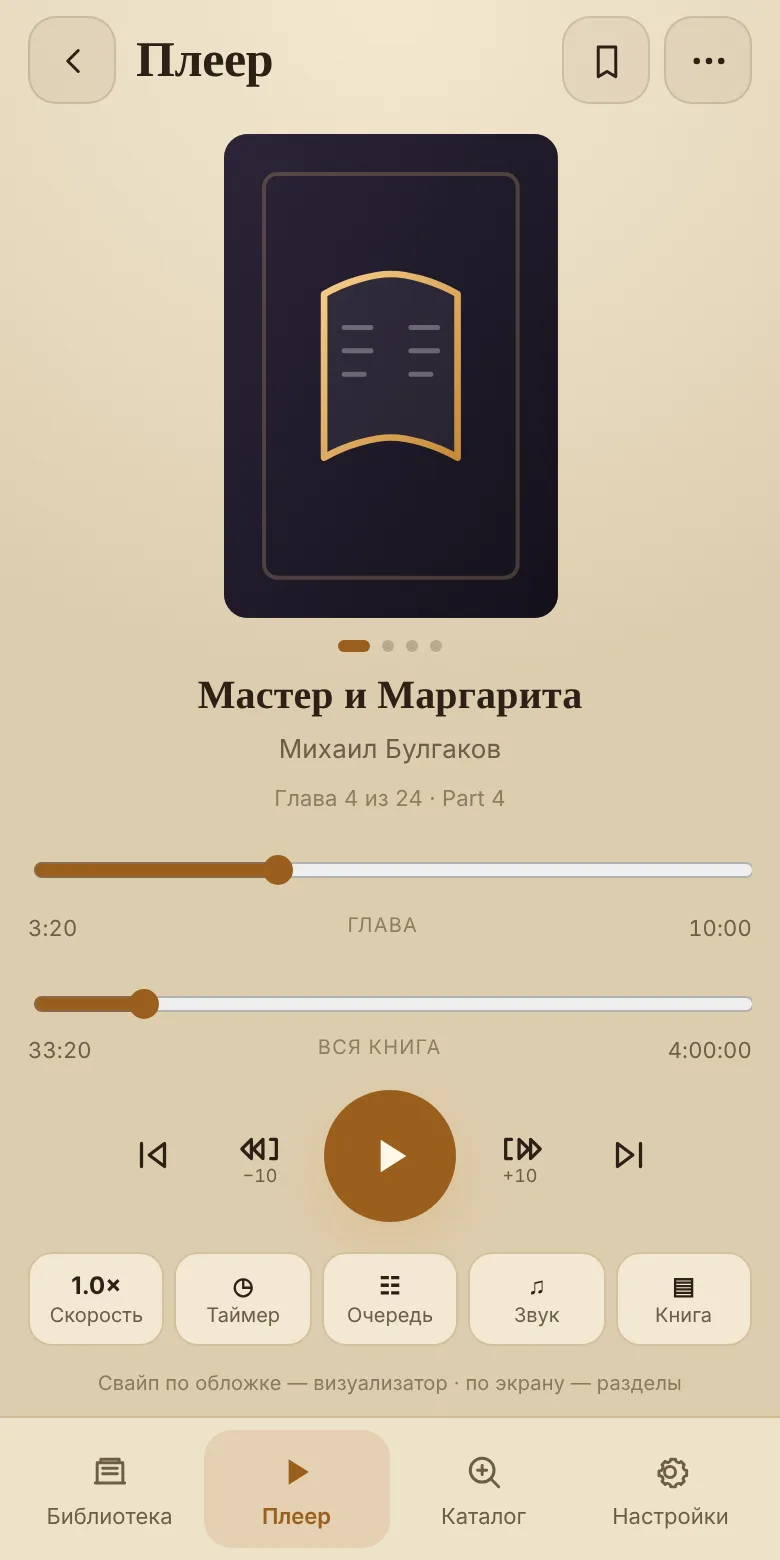
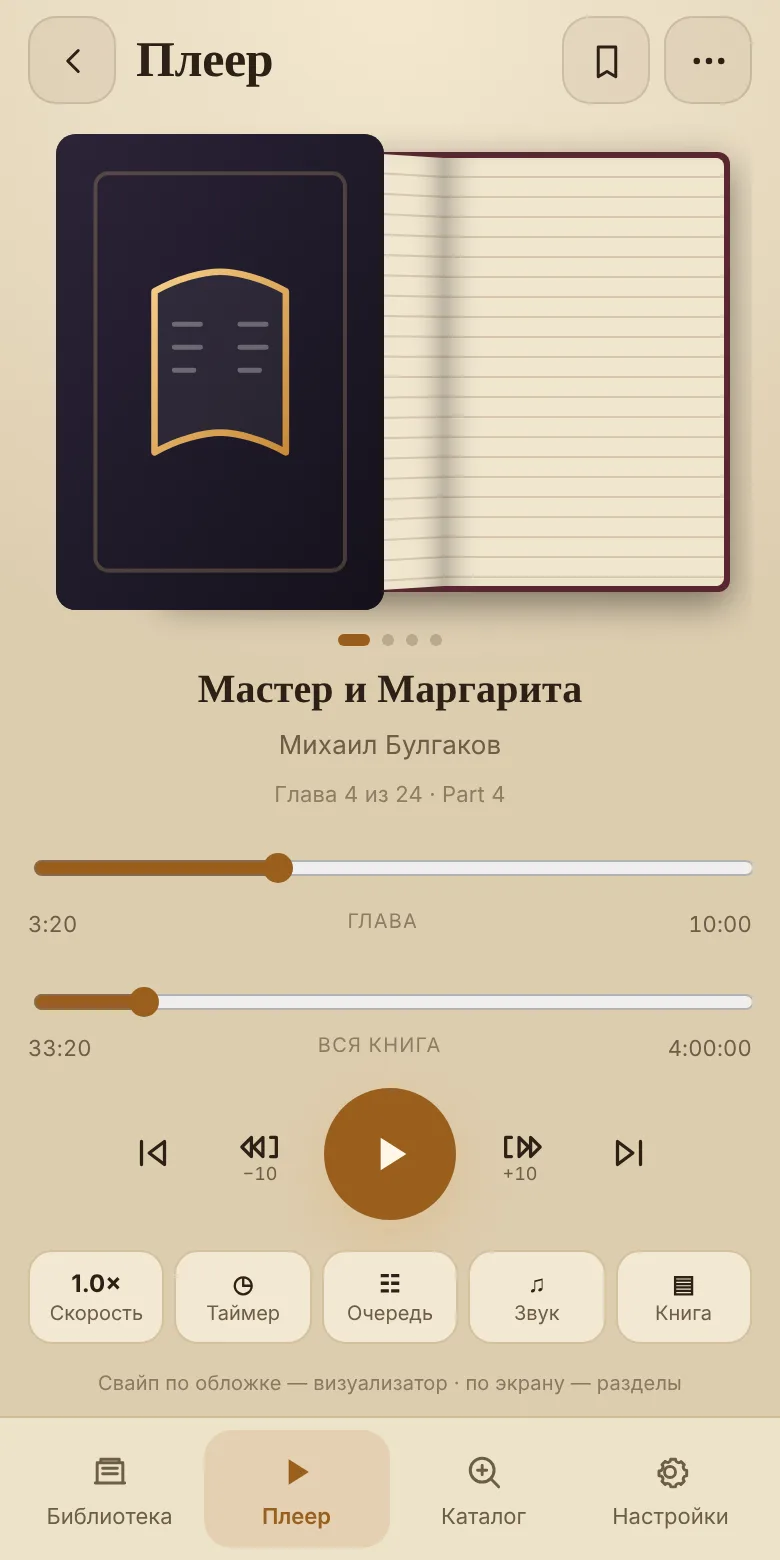
фикс

diff --git a/www/js/library.js b/www/js/library.js
@@ -44,9 +44,10 @@ function bindLoadMore(){
   if(btn) btn.onclick = () => { libraryDisplayLimit += 50; renderShelf(); };
 }
 
-const catalogTab = () => state.libraryFilterType === 'saved' || state.libraryFilterType === 'online';
+const catalogTab = () => state.libraryFilterType === 'online';
 
 export function renderShelf(){
+  if(state.libraryFilterType === 'saved') state.libraryFilterType = 'all';      // the old «Скачанные» tab is gone: downloaded books sit among books / music
   const { all, shown } = visibleBooks();
   const viewMode = localStorage.getItem('shelfViewMode') || 'list';
   const viewToggleIcon = viewMode === 'grid' ? 'list' : 'grid';
@@ -61,7 +62,6 @@ export function renderShelf(){
     `<button type="button" class="filter-chip ${state.libraryFilterType==='all'?'active':''}" data-filter="all">${t('Все')} (${state.books.length})</button>` +
     `<button type="button" class="filter-chip ${state.libraryFilterType==='book'?'active':''}" data-filter="book">${t('Книги')}</button>` +
     `<button type="button" class="filter-chip ${state.libraryFilterType==='album'?'active':''}" data-filter="album">${t('Музыка')}</button>` +
-    `<button type="button" class="filter-chip ${state.libraryFilterType==='saved'?'active':''}" data-filter="saved">${t('Скачанные')}</button>` +
     `<button type="button" class="filter-chip ${state.libraryFilterType==='online'?'active':''}" data-filter="online">${t('Онлайн')}</button>` +
   `</div>`;
   html += `<div class="${viewMode === 'grid' ? 'shelf-grid' : 'shelf-list'}">`;
@@ -161,7 +161,7 @@ function libraryBookRow(b, sig = rowSig(b)){
 
   return `<div class="library-book-item" data-id="${escapeHtml(b.id)}" data-sig="${escapeHtml(sig)}">
     <div class="lib-row-main">
-      <div class="lib-thumb">${bookCover(b)}${kindBadge(b)}</div>
+      <div class="lib-thumb">${bookCover(b)}${kindBadge(b)}${b.source && !b.online ? `<span class="dl-badge" aria-label="${t('Скачано')}">${icon('download', 'icon dl-ico')}</span>` : ''}</div>
       <div class="lib-info">
         <div class="lib-title">${escapeHtml(b.title)}</div>
         <div class="lib-author">${escapeHtml(b.author||t('Автор не указан'))}</div>
@@ -176,12 +176,11 @@ function libraryBookRow(b, sig = rowSig(b)){
 function filterBooks(books){
   const q = state.query.trim().toLowerCase();
   let filtered = books;
+  // downloaded catalog books are ordinary books / albums (marked with a small icon); the ones streamed from the internet have their own tab
   if(state.libraryFilterType === 'book'){
-    filtered = filtered.filter(b => !isMusic(b));
+    filtered = filtered.filter(b => !isMusic(b) && !b.online);
   } else if(state.libraryFilterType === 'album'){
-    filtered = filtered.filter(isMusic);
-  } else if(state.libraryFilterType === 'saved'){            // downloaded from the catalog: kept on the device for good
-    filtered = filtered.filter(b => b.source && !b.online);
+    filtered = filtered.filter(b => isMusic(b) && !b.online);
   } else if(state.libraryFilterType === 'online'){           // catalog books that are listened to over the internet
     filtered = filtered.filter(b => b.source && b.online);
   }

diff --git a/www/js/state.js b/www/js/state.js
@@ -20,6 +20,7 @@ export const ICONS = {
   shelf:'<path d="M4 18h16M5 18V7h14v11M7 7V5h10v2M8 10h8M8 13h8"/>',
   book:'<path d="M5 4h11a3 3 0 0 1 3 3v13H8a3 3 0 0 0-3 0V4Z"/><path d="M8 20V7a3 3 0 0 1 3-3"/>',
   playlist:'<path d="M4 6h11M4 11h11M4 16h7"/><path d="M17 14v6a2 2 0 1 1-2-2h2V9l5-1v4"/>',
+  download:'<path d="M12 4v10m-4-4 4 4 4-4M5 19h14"/>',
   catalog:'<circle cx="11" cy="11" r="6.5"/><path d="m20 20-4.3-4.3"/><path d="M8.5 11h5M11 8.5v5"/>',
   spark:'<path d="M12 3l1.9 5.1L19 10l-5.1 1.9L12 17l-1.9-5.1L5 10l5.1-1.9L12 3Z"/>',
   shuffle:'<path d="M3 7h3.5c3 0 4.5 2 6 5s3 5 6 5H21M3 17h3.5c1.4 0 2.5-.5 3.4-1.3M13.1 8.3C14 7.5 15.1 7 16.5 7H21"/><path d="m18.5 4.5 2.5 2.5-2.5 2.5M18.5 14.5l2.5 2.5-2.5 2.5"/>',

diff --git a/www/css/components.css b/www/css/components.css
@@ -249,6 +249,9 @@ input { outline: 0; }
   pointer-events: none;
   filter: drop-shadow(0 1px 2px rgba(0,0,0,.85)) drop-shadow(0 2px 8px rgba(0,0,0,.55));
 }
+.dl-badge { position: absolute; left: 5px; bottom: 5px; z-index: 2; width: 18px; height: 18px; border-radius: 50%; display: grid; place-items: center; pointer-events: none;
+  background: var(--accent, #e8b66d); color: #1a1208; box-shadow: 0 1px 4px rgba(0,0,0,.5); }
+.dl-badge .dl-ico, .dl-badge .dl-ico svg { width: 12px; height: 12px; display: block; stroke-width: 2.4; }
 .kind-badge.kind-music { color: #bfe6ff; }
 .kind-badge .kind-ico { width: 100%; height: 100%; display: block; }
 .kind-badge .kind-ico svg { width: 100%; height: 100%; stroke-width: 1.8; }

diff --git a/store/PRIVACY_POLICY.md b/store/PRIVACY_POLICY.md
@@ -11,7 +11,7 @@
 Вы сами выбираете папки с аудиокнигами через системный выбор папок Android. Приложение читает файлы для воспроизведения и сканирования (названия, длительность, обложки). Файлы не изменяются и не отправляются. Право записи в папку используется **только для двух функций**: (1) если вы в списке треков альбома сами выберете «Удалить с диска» и подтвердите, приложение удалит этот один файл; (2) если вы сами скачиваете книгу из каталога, приложение сохраняет её файлы в подпапку «AudioShelf» выбранной папки. Без вашей команды оно ничего не удаляет и не записывает.
 
 ## Каталог бесплатных книг и интернет
-Экран «Каталог» обращается к сайту **archive.org** (Internet Archive): для поиска, обложек, прослушивания онлайн и скачивания. Это происходит только когда вы сами ищете, слушаете или скачиваете книгу. На сервер уходят слова поиска и адрес нужной книги; сам сервер, как любой сайт, видит ваш IP-адрес и тип устройства (политика archive.org: https://archive.org/about/terms.php). Мы эти сведения не получаем и не добавляем к запросам никаких идентификаторов, аккаунтов или рекламных меток. Книги в каталоге — записи добровольцев LibriVox, находящиеся в общественном достоянии; лицензия и источник показаны у каждой книги. **Скачанные книги остаются у вас:** они лежат в вашей папке и не удаляются и не скрываются приложением, даже когда пробный период закончился и Премиум не куплен (без Премиума недоступно только новое скачивание). Ваша библиотека и прослушивание в сеть не отправляются.
+Экран «Каталог» обращается к сайту **archive.org** (Internet Archive): для поиска, обложек, прослушивания онлайн и скачивания. Это происходит только когда вы сами ищете, слушаете или скачиваете книгу. На сервер уходят слова поиска и адрес нужной книги; сам сервер, как любой сайт, видит ваш IP-адрес и тип устройства (политика archive.org: https://archive.org/about/terms.php). Мы эти сведения не получаем и не добавляем к запросам никаких идентификаторов, аккаунтов или рекламных меток. Записи в каталоге — это книги добровольцев LibriVox в общественном достоянии, другие аудиокниги и музыка со свободными лицензиями (общественное достояние, CC0, CC BY, CC BY-SA); лицензия и источник показаны у каждой записи. **Скачанные книги остаются у вас:** они лежат в вашей папке и не удаляются и не скрываются приложением, даже когда пробный период закончился и Премиум не куплен (без Премиума недоступно только новое скачивание). Ваша библиотека и прослушивание в сеть не отправляются.
 
 ## Платные функции и поддержка
 - Часть функций (эквалайзер, усиление и выравнивание громкости, визуализаторы, скачивание книг из каталога) входит в **Премиум**: разовая покупка, без подписки. Первые 30 дней после установки Премиум включён для ознакомления.

diff --git a/README.md b/README.md
@@ -71,7 +71,7 @@
 
 ## Каталог, онлайн и скачанные книги (2.8.0, правки 2.8.1)
 
-2.8.1: поиск по-русски идёт по коду языка архива (`language:rus`, у LibriVox коды ISO 639-2); меню книги «Удалить…» предлагает «Убрать из библиотеки» и «Удалить с диска» (`ShelfFiles.deleteFile`, для скачанных книг `dropEmptyDir` убирает и пустую папку); у обложки книги рядом лежит раскрытая книга, листы переворачиваются (`.fx-book`). Каталог теперь с тремя источниками на archive.org (`SOURCES` в `catalog.js`): «Книги LibriVox», «Другие книги» (`audio_bookspoetry` без LibriVox) и «Музыка» (`netlabels`); вне LibriVox показываются только записи с открытой лицензией (public domain, CC0, CC BY, CC BY-SA, без NC и ND), проверка есть и в запросе, и в `loadItem`. Музыка попадает в библиотеку как альбом.
+2.8.1: поиск по-русски идёт по коду языка архива (`language:rus`, у LibriVox коды ISO 639-2); меню книги «Удалить…» предлагает «Убрать из библиотеки» и «Удалить с диска» (`ShelfFiles.deleteFile`, для скачанных книг `dropEmptyDir` убирает и пустую папку); у обложки книги рядом лежит раскрытая книга, листы переворачиваются (`.fx-book`). Каталог теперь с тремя источниками на archive.org (`SOURCES` в `catalog.js`): «Книги LibriVox», «Другие книги» (`audio_bookspoetry` без LibriVox) и «Музыка» (`netlabels`); вне LibriVox показываются только записи с открытой лицензией (public domain, CC0, CC BY, CC BY-SA, без NC и ND), проверка есть и в запросе, и в `loadItem`. Музыка попадает в библиотеку как альбом. Вкладки библиотеки: Все / Книги / Музыка / Онлайн; скачанные книги лежат в «Книги» или «Музыка» и помечены значком (`.dl-badge`), онлайн-записи только во «Все» и «Онлайн».
 
 - **Каталог** (вместо «Для вас», которого больше нет): поиск по названию/автору, фильтр языка (русские / английские / все). Источник — Internet Archive, коллекция `librivoxaudio` (записи добровольцев LibriVox, общественное достояние). Файлы: один комплект MP3 (64 kbps, иначе 128 kbps / VBR), по порядку.
 - **Слушать онлайн** — бесплатно: книга попадает в библиотеку (вкладка «Онлайн») как обычная, с позицией и закладками; файлы — https-ссылки, Media3 играет их потоком; выравнивание громкости такие файлы не измеряет.

diff --git a/store/LISTING_RU.md b/store/LISTING_RU.md
@@ -16,7 +16,7 @@ AudioShelf — простой и быстрый плеер для аудиокн
 Выберите папку с аудиокнигами — приложение само найдёт книги, обложки и длительности. Каждая подпапка становится книгой, главы идут по порядку.
 
 БЕСПЛАТНЫЙ КАТАЛОГ
-Аудиокниги в общественном достоянии (записи добровольцев LibriVox, хранятся на archive.org): ищите по названию и автору, слушайте онлайн бесплатно. Скачивание в вашу папку для прослушивания без интернета входит в Премиум; скачанные книги остаются у вас навсегда. Лицензия и источник указаны у каждой книги.
+Свободные аудиокниги и музыка (записи LibriVox, общественное достояние и Creative Commons, хранятся на archive.org): ищите по названию и автору, слушайте онлайн бесплатно. Скачивание в вашу папку для прослушивания без интернета входит в Премиум; скачанные книги остаются у вас навсегда. Лицензия и источник указаны у каждой книги.
 
 ПАМЯТЬ ПО КАЖДОЙ КНИГЕ
 • позиция запоминается точно, даже если приложение закрыли или телефон перезагрузился;
@@ -42,4 +42,4 @@ AudioShelf — простой и быстрый плеер для аудиокн
 ПРИВАТНОСТЬ
 Приложение не собирает и не продаёт данные о вас, без аккаунтов. Интернет используется только когда вы сами ищете, слушаете или скачиваете книгу из каталога (archive.org). Оплату выполняет Google Play. Файлы читаются только для воспроизведения; удаляется файл лишь по вашей команде («Удалить с диска» у трека альбома).
 
-Тёмная и светлая темы, поиск и сортировка библиотеки, вкладки «Скачанные» и «Онлайн».
+Тёмная и светлая темы, поиск и сортировка библиотеки, вкладка «Онлайн», скачанное помечено значком.

diff --git a/store/LISTING_EN.md b/store/LISTING_EN.md
@@ -16,7 +16,7 @@ HOW IT WORKS
 Pick a folder with your audiobooks — the app finds the books, covers and durations by itself. Every subfolder becomes a book, chapters play in order.
 
 FREE CATALOG
-Public-domain audiobooks (readings by LibriVox volunteers, hosted on archive.org): search by title and author and listen online for free. Downloading into your folder for offline listening is part of Premium; downloaded books stay with you for good. The licence and source are shown on every book.
+Free audiobooks and music (LibriVox readings, public domain and Creative Commons recordings, hosted on archive.org): search by title and author and listen online for free. Downloading into your folder for offline listening is part of Premium; downloaded books stay with you for good. The licence and source are shown on every book.
 
 MEMORY FOR EVERY BOOK
 • the position is remembered exactly, even if the app is closed or the phone restarts;
@@ -42,4 +42,4 @@ Everything is open for the first 30 days. After that playback, the library, book
 PRIVACY
 The app doesn't collect or sell data about you and has no accounts. The internet is used only when you search, listen to or download a catalog book yourself (archive.org). Payments are handled by Google Play. Files are only read to play them; a file is deleted only when you ask (Delete from device on an album track).
 
-Dark and light themes, library search and sorting, "Downloaded" and "Online" tabs.
+Dark and light themes, library search and sorting, an "Online" tab, downloaded items marked with an icon.
